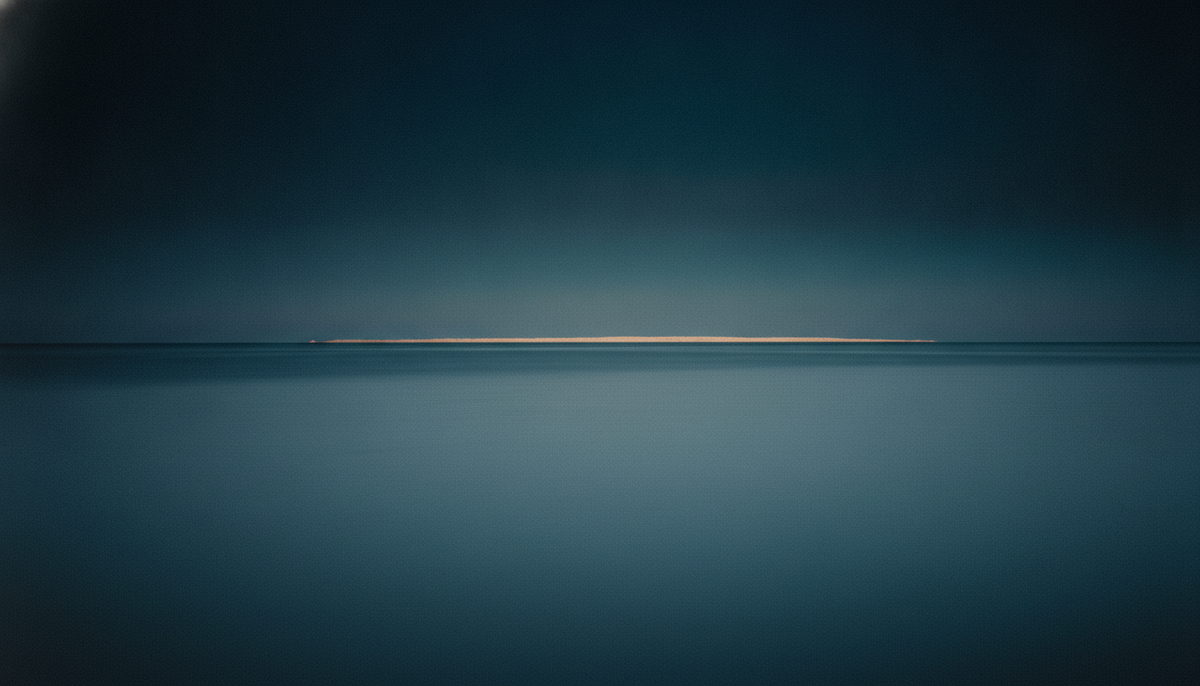
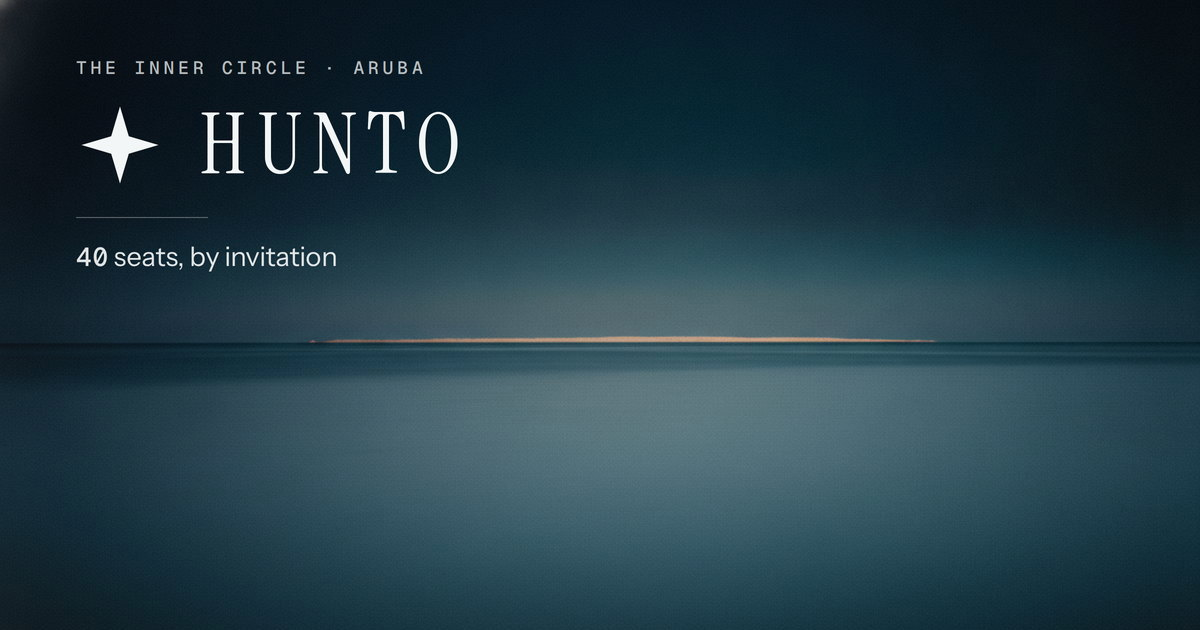
Give the Circle a face in a chat window
The club is joined one way: somebody already in pastes the link to somebody
they know. Aruba is WhatsApp-first — share.js is written entirely around that
— and until now the paste unfurled with the title, the description and an
empty grey picture box, which is the first thing an invited friend saw of us.

assets/og.jpg had been drawn for exactly this and then never wired to
anything: no og:image, no og:title, no og:description, no twitter:card
anywhere in index.html, and no reference to the file from js, css, sw.js or
the manifest. It was also a bare horizon — a quiet sea and a sandbar, the
house style but not one word on it, and 1200x686 where the card wants
1200x630.

So the card was redrawn at 1200x630 over the same horizon, carrying the club's
own masthead rather than a second one invented for it: the star mark and HUNTO
in spaced serif capitals, at the proportions app.css sets in the top bar. Under
it the dateline in the mono face and the seat line, with the figure in mono and
only the figure. It reads at 330px, which is the size a chat actually shows it.

The card says the name and the seat count and nothing else. No prices, no
member names, no coverage figure, and no photograph of a member — that last is
a house rule and it holds here too. The forty is the cap out of money.js, a
rule the club set, not a claim about who has turned up: two of the four rows in
the database cannot even sign in yet, and the card must not imply otherwise.
[…]

diff --git a/circle/index.html b/circle/index.html
@@ -5,6 +5,24 @@
 <title>Hunto — the Inner Circle, Aruba</title>
 <meta name="description" content="A private travel circle in Aruba. Members contribute monthly, the Banker confirms every transfer, and points — 100 to the dollar, fixed — pay for stays on the island and trips further afield.">
 <meta name="robots" content="noindex, nofollow">
+<!-- The card a stranger sees. Nobody finds this page — robots are told to stay away, above, and
+     that stays true. But the Circle is joined by someone already in pasting the link into a
+     chat, Aruba is WhatsApp-first, and until now that paste unfurled with an empty picture box.
+     So: the name, the seat count, and nothing else. No prices, no member names, no coverage
+     figure, and no photograph of a member — that is all inside the Circle, and the last of it is
+     a house rule. The count is the cap (money.js memberCap), not a headcount: forty is a rule
+     the club set, not a claim about who has turned up. -->
+<meta property="og:type" content="website">
+<meta property="og:site_name" content="Hunto">
+<meta property="og:url" content="https://victorfromaruba-stack.github.io/BY-JOHNNY-PAESCH/circle/">
+<meta property="og:title" content="Hunto — the Inner Circle, Aruba">
+<meta property="og:description" content="Forty seats, by invitation. Members pool a fixed amount each month, and points — 100 to the dollar, fixed — pay for stays on the island and trips further afield.">
+<meta property="og:image" content="https://victorfromaruba-stack.github.io/BY-JOHNNY-PAESCH/circle/assets/og.jpg">
+<meta property="og:image:type" content="image/jpeg">
+<meta property="og:image:width" content="1200">
+<meta property="og:image:height" content="630">
+<meta property="og:image:alt" content="The Hunto wordmark over a dark sea, with a pale sandbar along the horizon.">
+<meta name="twitter:card" content="summary_large_image">
 <meta http-equiv="Content-Security-Policy" content="default-src 'self'; script-src 'self' https://cdn.jsdelivr.net; style-src 'self' 'unsafe-inline' https://fonts.googleapis.com; font-src 'self' https://fonts.gstatic.com; img-src 'self' data: blob: https://*.supabase.co; child-src 'self' blob:; connect-src 'self' https://*.supabase.co wss://*.supabase.co https://vakaymood.com; manifest-src 'self'; worker-src 'self'; base-uri 'self'; form-action 'none'">
 <meta name="theme-color" content="#F2F5F4" media="(prefers-color-scheme: light)">
 <meta name="theme-color" content="#0B1220" media="(prefers-color-scheme: dark)">
